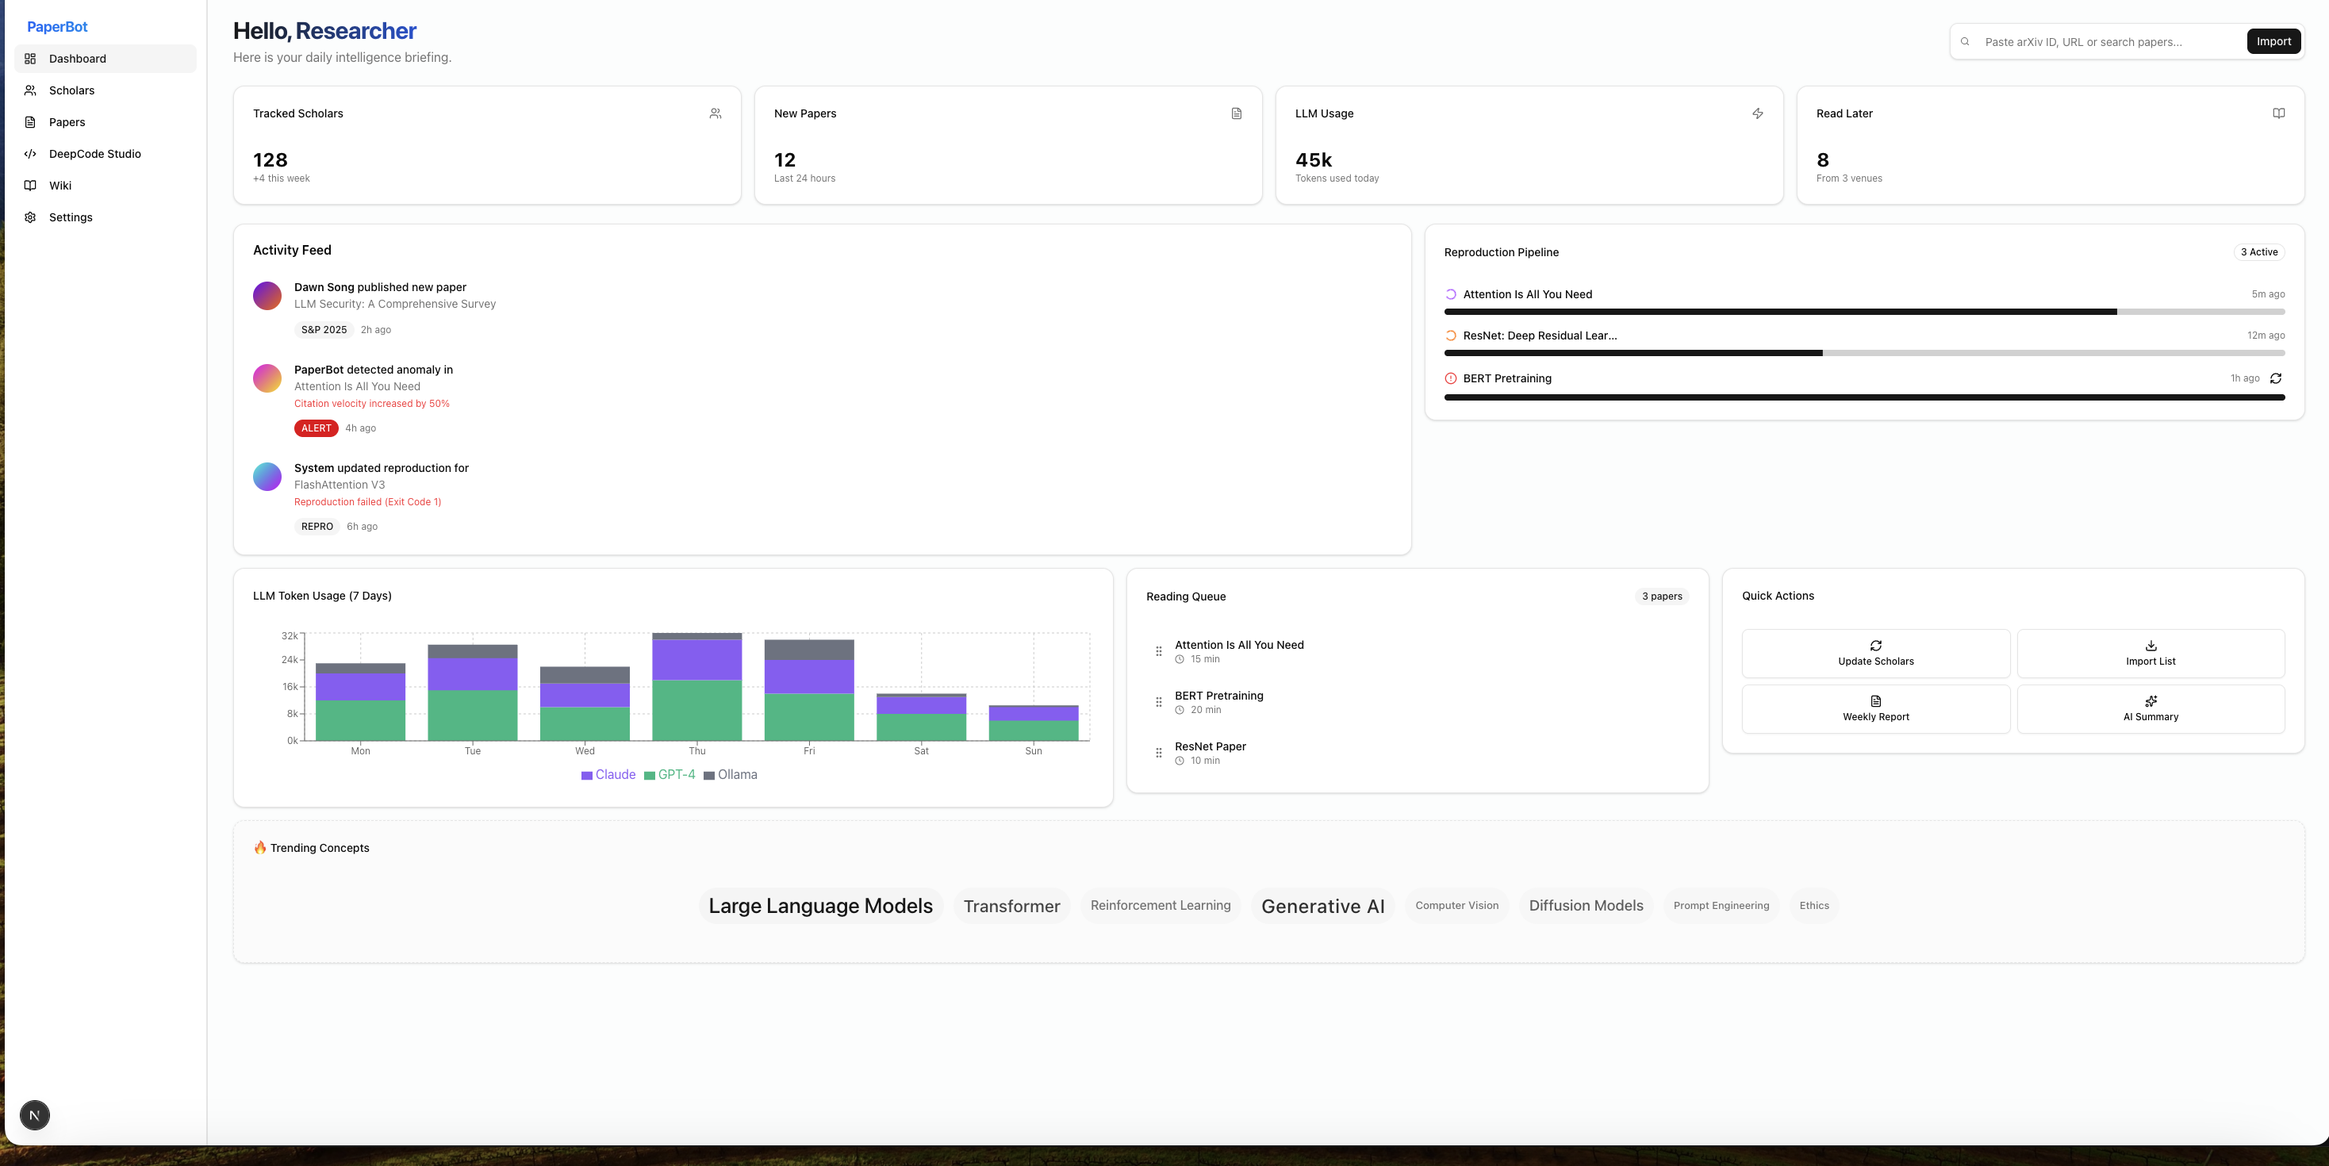
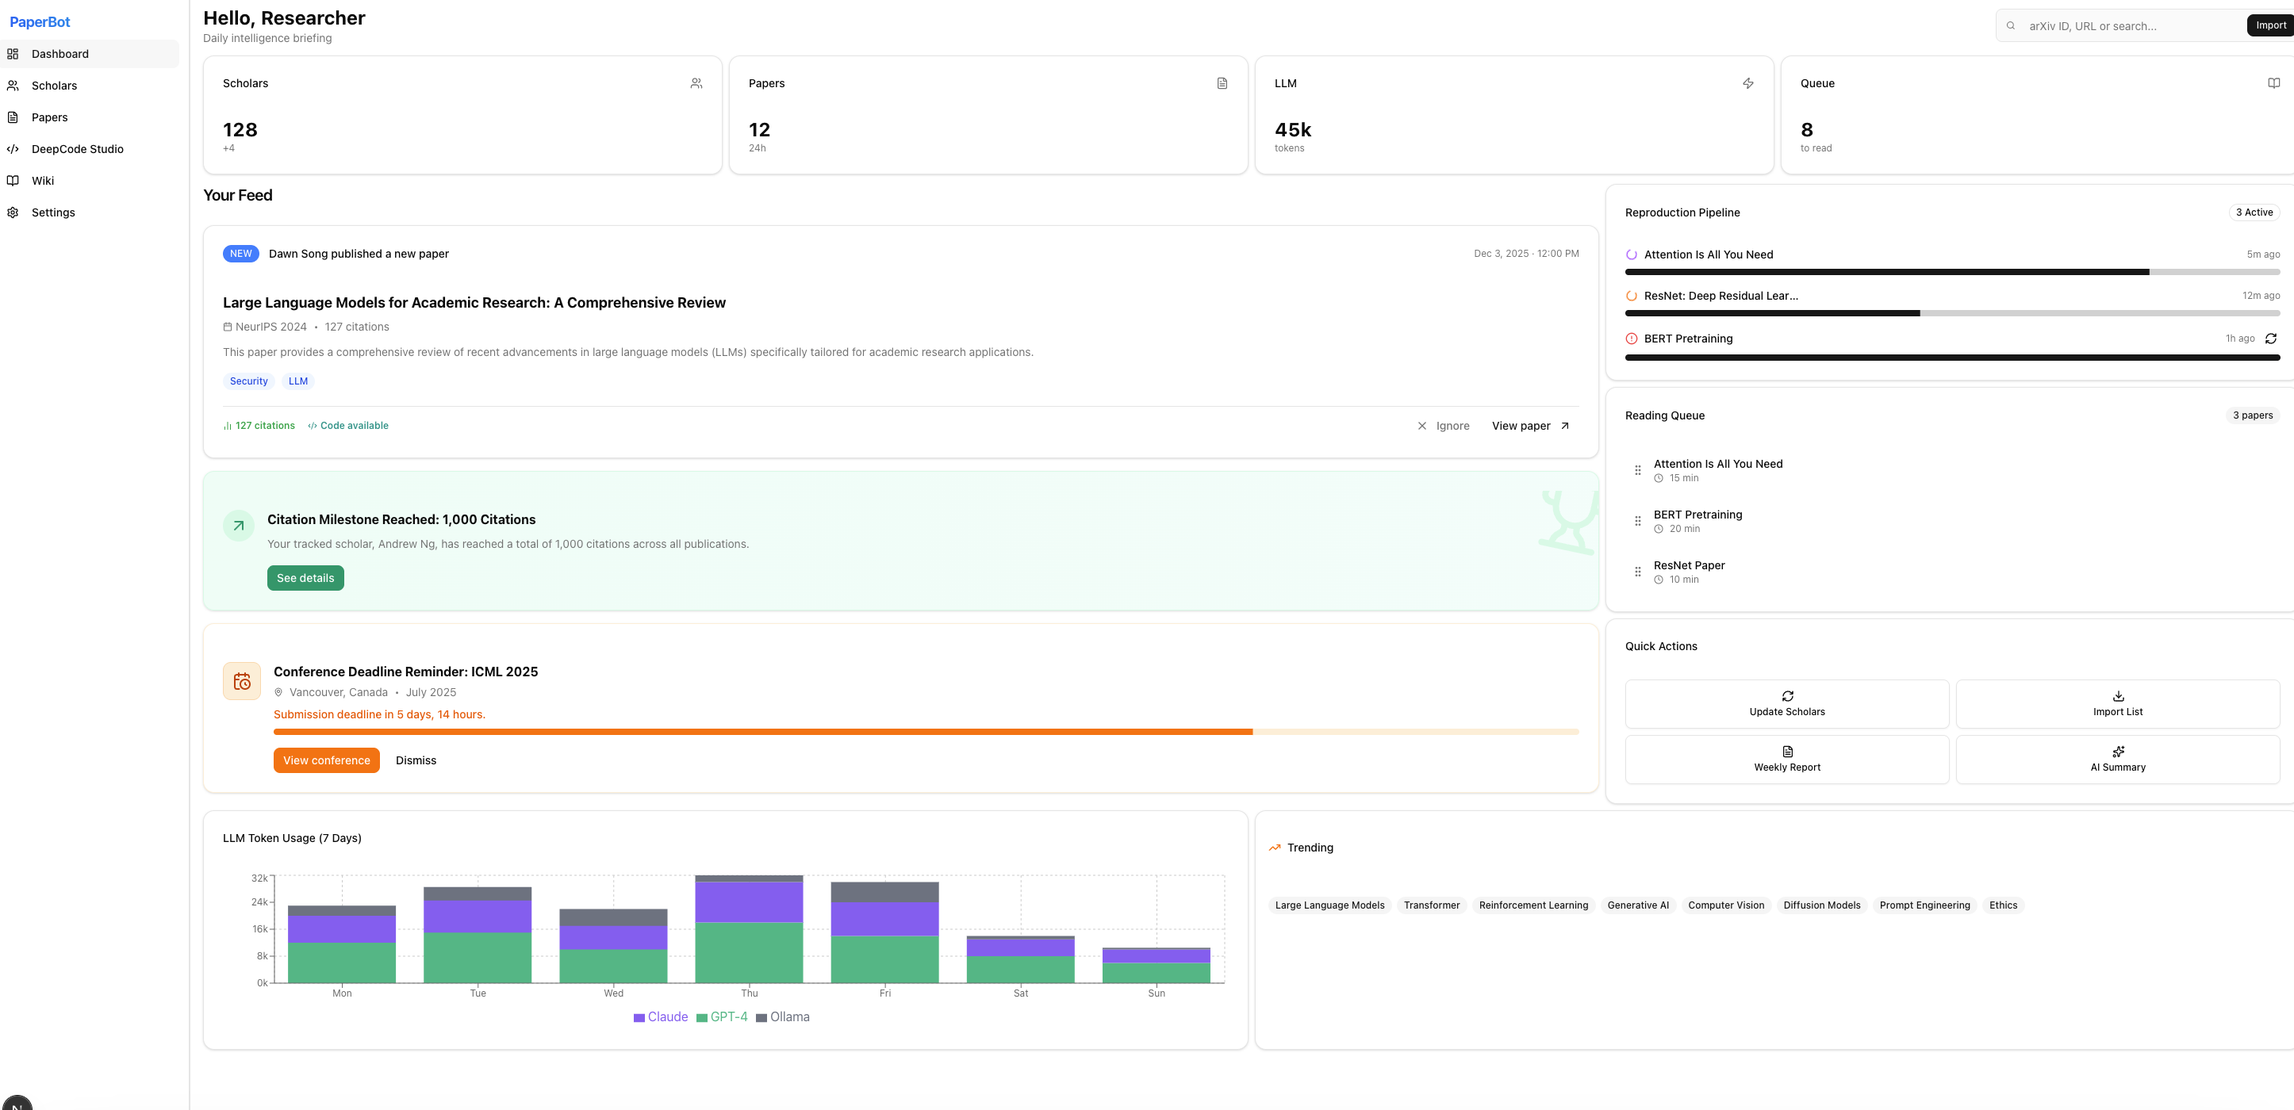
feat: Refine dashboard layout and component styling for a more compact and dense UI.

diff --git a/web/src/app/page.tsx b/web/src/app/page.tsx
@@ -4,7 +4,6 @@ import { PipelineStatus } from "@/components/dashboard/PipelineStatus"
 import { ReadingQueue } from "@/components/dashboard/ReadingQueue"
 import { LLMUsageChart } from "@/components/dashboard/LLMUsageChart"
 import { QuickActions } from "@/components/dashboard/QuickActions"
-import { QuickFilters } from "@/components/dashboard/QuickFilters"
 import { Users, FileText, Zap, BookOpen, Search, TrendingUp } from "lucide-react"
 import { fetchStats, fetchTrendingTopics, fetchPipelineTasks, fetchReadingQueue, fetchLLMUsage } from "@/lib/api"
 import { Card, CardContent, CardHeader, CardTitle } from "@/components/ui/card"
@@ -22,95 +21,64 @@ export default async function DashboardPage() {
   ])
 
   return (
-    <div className="flex-1 p-6 space-y-4 min-h-screen">
-      {/* Premium Header */}
-      <div className="flex flex-col md:flex-row md:items-center justify-between gap-4">
+    <div className="flex-1 p-4 space-y-3 min-h-screen">
+      {/* Compact Header */}
+      <div className="flex flex-col sm:flex-row sm:items-center justify-between gap-3">
         <div>
-          <h2 className="text-3xl font-bold tracking-tight bg-gradient-to-r from-primary to-blue-600 bg-clip-text text-transparent">Hello, Researcher</h2>
-          <p className="text-muted-foreground mt-1">Here is your daily intelligence briefing.</p>
+          <h2 className="text-2xl font-bold tracking-tight">Hello, Researcher</h2>
+          <p className="text-sm text-muted-foreground">Daily intelligence briefing</p>
         </div>
-        <div className="flex w-full md:max-w-md items-center gap-2 bg-background p-1 rounded-lg border shadow-sm">
+        <div className="flex w-full sm:max-w-sm items-center gap-1.5 bg-muted/50 p-1 rounded-md border">
           <Search className="ml-2 h-4 w-4 text-muted-foreground" />
           <Input
             type="text"
-            placeholder="Paste arXiv ID, URL or search papers..."
-            className="border-none shadow-none focus-visible:ring-0"
+            placeholder="arXiv ID, URL or search..."
+            className="h-8 border-none bg-transparent shadow-none focus-visible:ring-0 text-sm"
           />
-          <Button slot="append" size="sm">Import</Button>
+          <Button size="sm" className="h-7 text-xs">Import</Button>
         </div>
       </div>
 
-      {/* Stats Overview - Premium Cards */}
-      <div className="grid gap-4 md:grid-cols-2 lg:grid-cols-4">
-        <StatsCard
-          title="Tracked Scholars"
-          value={stats.tracked_scholars.toString()}
-          description="+4 this week"
-          icon={Users}
-        />
-        <StatsCard
-          title="New Papers"
-          value={stats.new_papers.toString()}
-          description="Last 24 hours"
-          icon={FileText}
-        />
-        <StatsCard
-          title="LLM Usage"
-          value={stats.llm_usage}
-          description="Tokens used today"
-          icon={Zap}
-        />
-        <StatsCard
-          title="Read Later"
-          value={stats.read_later.toString()}
-          description="From 3 venues"
-          icon={BookOpen}
-        />
+      {/* Stats Row - Compact */}
+      <div className="grid grid-cols-2 lg:grid-cols-4 gap-2">
+        <StatsCard title="Scholars" value={stats.tracked_scholars.toString()} description="+4" icon={Users} />
+        <StatsCard title="Papers" value={stats.new_papers.toString()} description="24h" icon={FileText} />
+        <StatsCard title="LLM" value={stats.llm_usage} description="tokens" icon={Zap} />
+        <StatsCard title="Queue" value={stats.read_later.toString()} description="to read" icon={BookOpen} />
       </div>
 
-      {/* Bento Grid Layout */}
-      <div className="grid grid-cols-1 md:grid-cols-3 lg:grid-cols-7 gap-3 auto-rows-[minmax(160px,auto)]">
-
-        {/* Large Item: Activity Feed (2 Cols, 2 Rows) */}
-        <div className="md:col-span-2 lg:col-span-4 row-span-2">
+      {/* Main Grid - 12 Column Dense Layout */}
+      <div className="grid grid-cols-12 gap-2">
+        {/* Activity Feed - Main Content */}
+        <div className="col-span-12 lg:col-span-8">
           <ActivityFeed />
         </div>
 
-        {/* Tall Item: Pipeline Status (1 Col, 2 Rows) */}
-        <div className="md:col-span-1 lg:col-span-3 row-span-2 h-full">
+        {/* Right Sidebar */}
+        <div className="col-span-12 lg:col-span-4 space-y-2">
           <PipelineStatus tasks={tasks} />
-        </div>
-
-        {/* Medium: LLM Chart (2 Cols) */}
-        <div className="md:col-span-2 lg:col-span-3">
-          <LLMUsageChart data={llmUsage} />
-        </div>
-
-        {/* Medium: Reading Queue (2 Cols) */}
-        <div className="md:col-span-1 lg:col-span-2">
           <ReadingQueue items={readingQueue} />
-        </div>
-
-        {/* Small: Quick Actions (1 Col) */}
-        <div className="md:col-span-1 lg:col-span-2">
           <QuickActions />
         </div>
 
-        {/* Trending Word Cloud (Wide or Flexible) */}
-        <Card className="md:col-span-3 lg:col-span-7 bg-muted/20 border-dashed">
-          <CardHeader className="pb-2">
+        {/* Bottom Row */}
+        <div className="col-span-12 lg:col-span-6">
+          <LLMUsageChart data={llmUsage} />
+        </div>
+
+        <Card className="col-span-12 lg:col-span-6">
+          <CardHeader className="py-3 px-4">
             <CardTitle className="text-sm font-medium flex items-center gap-2">
-              <TrendingUp className="h-4 w-4 text-orange-500" /> Trending Concepts
+              <TrendingUp className="h-4 w-4 text-orange-500" /> Trending
             </CardTitle>
           </CardHeader>
-          <CardContent>
-            <div className="flex flex-wrap justify-center gap-3">
+          <CardContent className="py-2 px-4">
+            <div className="flex flex-wrap gap-1.5">
               {trends.map((topic, i) => (
                 <Badge
                   key={i}
                   variant="secondary"
-                  className="py-1 px-3 cursor-pointer hover:scale-105 transition-transform hover:bg-primary hover:text-primary-foreground"
-                  style={{ fontSize: `${Math.max(0.8, topic.value / 60)}rem`, opacity: Math.max(0.6, topic.value / 100) }}
+                  className="text-xs cursor-pointer hover:bg-primary hover:text-primary-foreground transition-colors"
                 >
                   {topic.text}
                 </Badge>

diff --git a/web/src/components/dashboard/PipelineStatus.tsx b/web/src/components/dashboard/PipelineStatus.tsx
@@ -12,42 +12,36 @@ interface PipelineStatusProps {
 }
 
 const statusIcons = {
-    downloading: <Loader2 className="h-4 w-4 animate-spin text-blue-500" />,
-    analyzing: <Loader2 className="h-4 w-4 animate-spin text-yellow-500" />,
-    building: <Loader2 className="h-4 w-4 animate-spin text-orange-500" />,
-    testing: <Loader2 className="h-4 w-4 animate-spin text-purple-500" />,
-    success: <CheckCircle2 className="h-4 w-4 text-green-500" />,
-    failed: <AlertCircle className="h-4 w-4 text-red-500" />
+    downloading: <Loader2 className="h-3 w-3 animate-spin text-blue-500" />,
+    analyzing: <Loader2 className="h-3 w-3 animate-spin text-yellow-500" />,
+    building: <Loader2 className="h-3 w-3 animate-spin text-orange-500" />,
+    testing: <Loader2 className="h-3 w-3 animate-spin text-purple-500" />,
+    success: <CheckCircle2 className="h-3 w-3 text-green-500" />,
+    failed: <AlertCircle className="h-3 w-3 text-red-500" />
 }
 
 export function PipelineStatus({ tasks }: PipelineStatusProps) {
     return (
         <Card>
-            <CardHeader className="flex flex-row items-center justify-between space-y-0 pb-2">
-                <CardTitle className="text-sm font-medium">Reproduction Pipeline</CardTitle>
-                <Badge variant="outline">{tasks.length} Active</Badge>
+            <CardHeader className="flex flex-row items-center justify-between space-y-0 p-3 pb-2">
+                <CardTitle className="text-xs font-medium">Pipeline</CardTitle>
+                <Badge variant="outline" className="text-[10px] px-1.5 py-0">{tasks.length}</Badge>
             </CardHeader>
-            <CardContent className="space-y-4">
+            <CardContent className="p-3 pt-0 space-y-2">
                 {tasks.map((task) => (
-                    <div key={task.id} className="space-y-2">
-                        <div className="flex items-center justify-between">
-                            <div className="flex items-center gap-2">
+                    <div key={task.id} className="space-y-1">
+                        <div className="flex items-center justify-between text-xs">
+                            <div className="flex items-center gap-1.5">
                                 {statusIcons[task.status]}
-                                <span className="text-sm font-medium truncate max-w-[200px]">{task.paper_title}</span>
+                                <span className="font-medium truncate max-w-[140px]">{task.paper_title}</span>
                             </div>
-                            <div className="flex items-center gap-2">
-                                <span className="text-xs text-muted-foreground">{task.started_at}</span>
-                                {task.status === "failed" && (
-                                    <Button size="icon" variant="ghost" className="h-6 w-6">
-                                        <RefreshCw className="h-3 w-3" />
-                                    </Button>
-                                )}
-                            </div>
+                            <span className="text-muted-foreground text-[10px]">{task.started_at}</span>
                         </div>
-                        <Progress value={task.progress} className={task.status === "failed" ? "bg-red-100" : ""} />
+                        <Progress value={task.progress} className="h-1" />
                     </div>
                 ))}
             </CardContent>
         </Card>
     )
 }
+

diff --git a/web/src/components/dashboard/ReadingQueue.tsx b/web/src/components/dashboard/ReadingQueue.tsx
@@ -1,9 +1,8 @@
 "use client"
 
 import { Card, CardContent, CardHeader, CardTitle } from "@/components/ui/card"
-import { Button } from "@/components/ui/button"
 import { Badge } from "@/components/ui/badge"
-import { GripVertical, Clock, Sparkles } from "lucide-react"
+import { Clock } from "lucide-react"
 import type { ReadingQueueItem } from "@/lib/types"
 import Link from "next/link"
 
@@ -14,29 +13,26 @@ interface ReadingQueueProps {
 export function ReadingQueue({ items }: ReadingQueueProps) {
     return (
         <Card>
-            <CardHeader className="flex flex-row items-center justify-between space-y-0 pb-2">
-                <CardTitle className="text-sm font-medium">Reading Queue</CardTitle>
-                <Badge variant="secondary">{items.length} papers</Badge>
+            <CardHeader className="flex flex-row items-center justify-between space-y-0 p-3 pb-2">
+                <CardTitle className="text-xs font-medium">Queue</CardTitle>
+                <Badge variant="secondary" className="text-[10px] px-1.5 py-0">{items.length}</Badge>
             </CardHeader>
-            <CardContent className="space-y-3">
+            <CardContent className="p-3 pt-0 space-y-1.5">
                 {items.map((item) => (
-                    <div key={item.id} className="flex items-center gap-3 p-2 rounded-md hover:bg-muted/50 transition-colors group">
-                        <GripVertical className="h-4 w-4 text-muted-foreground cursor-grab" />
+                    <div key={item.id} className="flex items-center gap-2 p-1.5 rounded hover:bg-muted/50 text-xs">
                         <div className="flex-1 min-w-0">
-                            <Link href={`/papers/${item.paper_id}`} className="text-sm font-medium truncate block hover:underline">
+                            <Link href={`/papers/${item.paper_id}`} className="font-medium truncate block hover:underline text-xs">
                                 {item.title}
                             </Link>
-                            <div className="flex items-center gap-2 text-xs text-muted-foreground">
-                                <Clock className="h-3 w-3" />
+                            <div className="flex items-center gap-1 text-[10px] text-muted-foreground">
+                                <Clock className="h-2.5 w-2.5" />
                                 <span>{item.estimated_time}</span>
                             </div>
                         </div>
-                        <Button size="sm" variant="ghost" className="opacity-0 group-hover:opacity-100 transition-opacity">
-                            <Sparkles className="h-3 w-3 mr-1" /> Summarize
-                        </Button>
                     </div>
                 ))}
             </CardContent>
         </Card>
     )
 }
+

diff --git a/web/src/components/dashboard/QuickActions.tsx b/web/src/components/dashboard/QuickActions.tsx
@@ -7,27 +7,28 @@ import { RefreshCw, Download, FileText, Sparkles } from "lucide-react"
 export function QuickActions() {
     return (
         <Card>
-            <CardHeader>
-                <CardTitle className="text-sm font-medium">Quick Actions</CardTitle>
+            <CardHeader className="p-3 pb-2">
+                <CardTitle className="text-xs font-medium">Actions</CardTitle>
             </CardHeader>
-            <CardContent className="grid grid-cols-2 gap-2">
-                <Button variant="outline" className="h-auto py-3 flex-col gap-1">
-                    <RefreshCw className="h-5 w-5" />
-                    <span className="text-xs">Update Scholars</span>
+            <CardContent className="p-3 pt-0 grid grid-cols-2 gap-1.5">
+                <Button variant="outline" size="sm" className="h-auto py-2 flex-col gap-0.5 text-xs">
+                    <RefreshCw className="h-3.5 w-3.5" />
+                    <span className="text-[10px]">Update</span>
                 </Button>
-                <Button variant="outline" className="h-auto py-3 flex-col gap-1">
-                    <Download className="h-5 w-5" />
-                    <span className="text-xs">Import List</span>
+                <Button variant="outline" size="sm" className="h-auto py-2 flex-col gap-0.5 text-xs">
+                    <Download className="h-3.5 w-3.5" />
+                    <span className="text-[10px]">Import</span>
                 </Button>
-                <Button variant="outline" className="h-auto py-3 flex-col gap-1">
-                    <FileText className="h-5 w-5" />
-                    <span className="text-xs">Weekly Report</span>
+                <Button variant="outline" size="sm" className="h-auto py-2 flex-col gap-0.5 text-xs">
+                    <FileText className="h-3.5 w-3.5" />
+                    <span className="text-[10px]">Report</span>
                 </Button>
-                <Button variant="outline" className="h-auto py-3 flex-col gap-1">
-                    <Sparkles className="h-5 w-5" />
-                    <span className="text-xs">AI Summary</span>
+                <Button variant="outline" size="sm" className="h-auto py-2 flex-col gap-0.5 text-xs">
+                    <Sparkles className="h-3.5 w-3.5" />
+                    <span className="text-[10px]">AI</span>
                 </Button>
             </CardContent>
         </Card>
     )
 }
+

diff --git a/web/src/components/dashboard/StatsCard.tsx b/web/src/components/dashboard/StatsCard.tsx
@@ -10,17 +10,17 @@ interface StatsCardProps {
 
 export function StatsCard({ title, value, description, icon: Icon }: StatsCardProps) {
     return (
-        <Card>
-            <CardHeader className="flex flex-row items-center justify-between space-y-0 pb-2">
-                <CardTitle className="text-sm font-medium">
+        <Card className="py-2">
+            <CardHeader className="flex flex-row items-center justify-between space-y-0 p-3 pb-1">
+                <CardTitle className="text-xs font-medium text-muted-foreground">
                     {title}
                 </CardTitle>
-                <Icon className="h-4 w-4 text-muted-foreground" />
+                <Icon className="h-3.5 w-3.5 text-muted-foreground" />
             </CardHeader>
-            <CardContent>
-                <div className="text-2xl font-bold">{value}</div>
+            <CardContent className="p-3 pt-0">
+                <div className="text-xl font-bold">{value}</div>
                 {description && (
-                    <p className="text-xs text-muted-foreground">
+                    <p className="text-[10px] text-muted-foreground">
                         {description}
                     </p>
                 )}
@@ -28,3 +28,4 @@ export function StatsCard({ title, value, description, icon: Icon }: StatsCardPr
         </Card>
     )
 }
+

diff --git a/web/src/components/dashboard/ActivityFeed.tsx b/web/src/components/dashboard/ActivityFeed.tsx
@@ -1,4 +1,3 @@
-import { Card, CardContent, CardHeader, CardTitle } from "@/components/ui/card"
 import { fetchActivities } from "@/lib/api"
 import { NewPaperCard } from "./feed/NewPaperCard"
 import { MilestoneCard } from "./feed/MilestoneCard"
@@ -8,13 +7,9 @@ export async function ActivityFeed() {
     const activities = await fetchActivities()
 
     return (
-        <div className="col-span-4 lg:col-span-3 lg:row-span-2 space-y-6">
-            <div className="flex items-center justify-between">
-                <h3 className="text-xl font-semibold tracking-tight">Your Feed</h3>
-                {/* Potentially add feed filters here */}
-            </div>
-
-            <div className="space-y-4">
+        <div className="space-y-3">
+            <h3 className="text-base font-semibold tracking-tight">Your Feed</h3>
+            <div className="space-y-2">
                 {activities.map((activity) => {
                     switch (activity.type) {
                         case "published":
@@ -31,3 +26,4 @@ export async function ActivityFeed() {
         </div>
     )
 }
+
